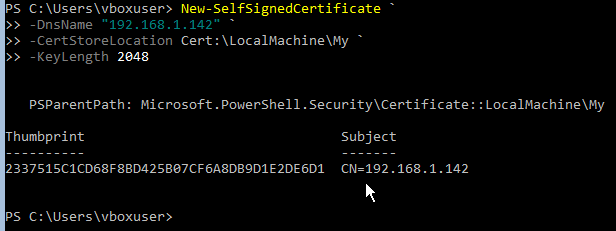
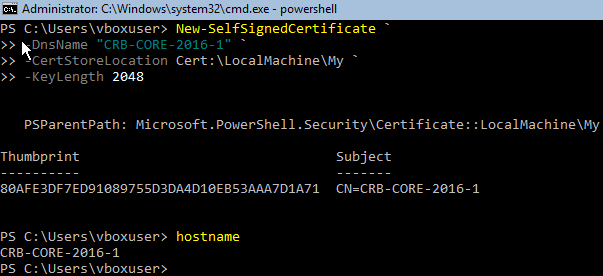
yeah

Changed region(s): [[0.0, 0.0, 1.0, 1.0], [0.5672, 0.8182, 0.6269, 0.8788]]

diff --git a/ut04/pr0401.md b/ut04/pr0401.md
@@ -164,6 +164,10 @@ Hacemos en el Core 1:
 
 ![fotoyeah](./15.png)
 
+CUIDADO: EL DNS ES EL NOMBRE DEL CORE 1
+
+(Tuve que repetir todo este proceso. El hash correcto es el de la imagen anterior, conservo el hash erróneo en las siguientes imágenes porque lo que importa es el proceso y sólo cambia ese hash)
+
 Borramos el listener:
 
 ![fotoyeah](./16.png)
@@ -242,7 +246,17 @@ Importamos el certificado (seguimos en el Grafico):
 
 ![fotoyeah](./22.png)
 
+Vemos que se ha importado correctamente:
 
+![fotoyeah](./23.png)
+
+(Esa imagen contiene el certificado corregido)
+
+Y, por fin, nos conectamos con -UseSSL:
+
+![fotoyeah](./24.png)
+
+Todo esto es para un solo Core. Se hace lo mismo para el otro.
 
 1. Configuración remota con Windows Admin Center
 
